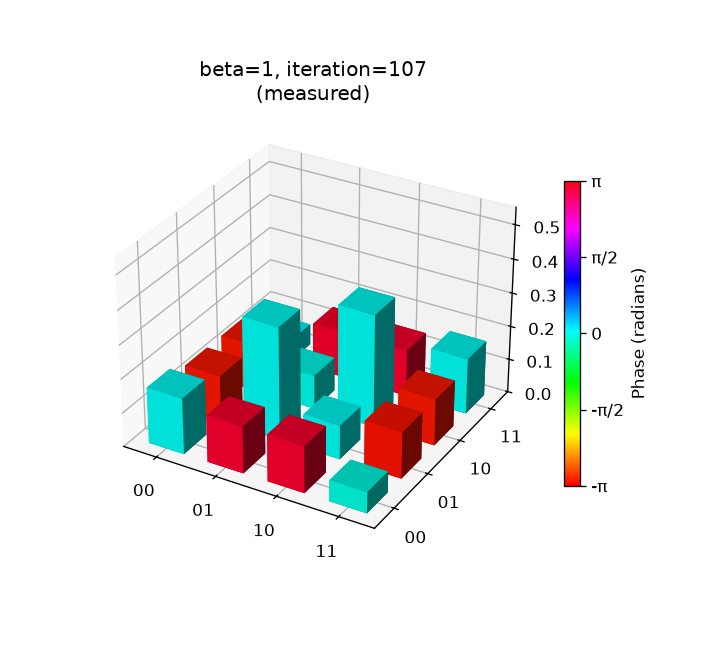
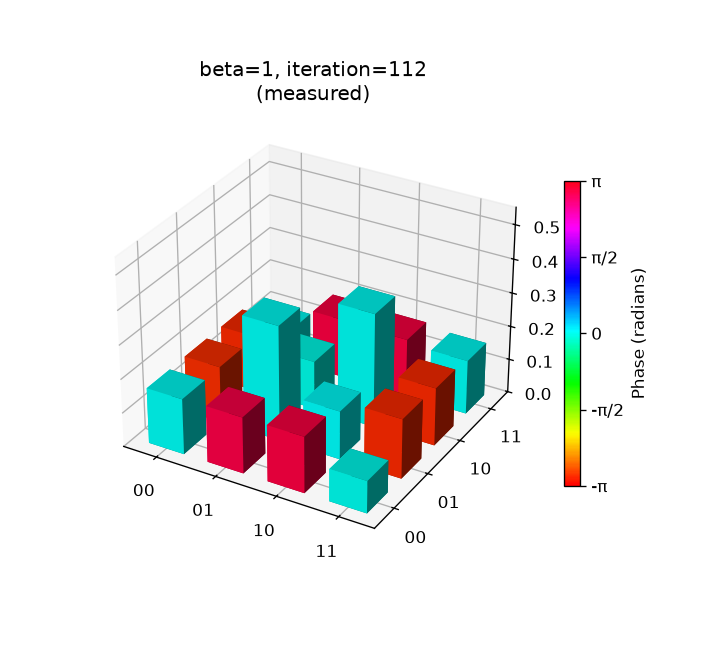
final version simulation

Changed region(s): [[0.2444, 0.4242, 0.6417, 0.7576], [0.55, 0.0909, 0.6111, 0.1212], [0.6417, 0.5152, 0.6722, 0.5455]]

diff --git a/frontend/experiment.py b/frontend/experiment.py
@@ -115,6 +115,7 @@ class OptimizationWorker(QObject):
     rho_progress = Signal(object)
     finished = Signal(object)
     log = Signal(str)
+    step = Signal(float)
 
     def __init__(self, manager, config: SessionConfig):
         super().__init__()
@@ -129,6 +130,8 @@ class OptimizationWorker(QObject):
         config = self.config
         x0 = np.array([config.gamma1, config.gamma2, config.alpha1, config.alpha2])
         iteration = [0]
+        betas = [b for b in (1e-8, 0.5, 1, 5) if b < config.beta] + [config.beta]
+        current_beta = [betas[0]]
 
         # Computed once up front rather than per-iteration or only at the
         # end: the true Gibbs state depends only on beta, not on the
@@ -143,7 +146,7 @@ class OptimizationWorker(QObject):
 
         cost_fn = CostFunction(
             varsigma=1.57,
-            backend=NoisySimulator("Starmon-7", ideal_simulation=False),
+            backend=NoisySimulator("Starmon-7", ideal_simulation=True),
         )
 
         # The live density-matrix preview is by far the most expensive thing
@@ -165,15 +168,17 @@ class OptimizationWorker(QObject):
             if self._abort:
                 raise _Aborted()
             iteration[0] += 1
-            cost = cost_fn.cost_history[-1]
+            bound = CostFunction.cost_lower_bound(current_beta[0])
+            cost = (cost_fn.cost_history[-1] - bound) / abs(bound)
             self.progress.emit(iteration[0], float(cost))
             try:
                 rho_a = cost_fn.tomography_history[-1]
                 if iteration[0] % rho_every == 0:
                     self.rho_progress.emit(rho_a)
-                if target is not None:
-                    fid = state_fidelity(DensityMatrix(rho_a), target, validate=False)
-                    self.fidelity_progress.emit(iteration[0], float(fid))
+                tgt = DensityMatrix(
+                    GibbsState(default_subsystem_hamiltonian()).gibbs_density_matrix(current_beta[0]))
+                fid = state_fidelity(DensityMatrix(rho_a), tgt, validate=False)
+                self.fidelity_progress.emit(iteration[0], float(fid))
             except Exception:
                 pass  # a live preview glitch shouldn't kill the optimization
             time.sleep(_STEP_DELAY_SECONDS)
@@ -182,10 +187,15 @@ class OptimizationWorker(QObject):
             f"Starting optimization  |  beta={config.beta}  optimizer={config.optimizer}")
 
         try:
-            result = minimize(
-                cost_fn.cost_function, x0=x0, args=(config.beta,), method=config.optimizer,
-                options={'maxiter': config.iterations}, callback=callback,
-            )
+            for b in betas:
+                current_beta[0] = b
+                self.step.emit(b)
+                self.log.emit(f"Optimizing at beta={b}")
+                result = minimize(
+                    cost_fn.cost_function, x0=x0, args=(b,), method=config.optimizer,
+                    options={'maxiter': config.iterations}, callback=callback,
+                )
+                x0 = result.x
             final_params = result.x
         except _Aborted:
             self.log.emit("Aborted.")
@@ -494,6 +504,7 @@ class ExperimentWindow(QWidget):
         self.worker.log.connect(self._on_log)
         self.worker.finished.connect(self._on_finished)
         self.worker.finished.connect(self.thread.quit)
+        self.worker.step.connect(self._on_step)
         self.thread.finished.connect(self.thread.deleteLater)
         self.thread.finished.connect(self._on_thread_finished)
 
@@ -552,6 +563,13 @@ class ExperimentWindow(QWidget):
     def _on_log(self, message: str):
         self.status_log.appendPlainText(message)
 
+    def _on_step(self, beta: float):
+        for ax, xs in ((self._loss_ax, self.loss_x), (self._fidelity_ax, self.fidelity_x)):
+            x = (xs[-1] + 0.5) if xs else 0
+            ax.axvline(x, color=Colors.TEXT_MUTED, linestyle=":", linewidth=1.2)
+            ax.text(x, 1.0, f" β={beta:g}", transform=ax.get_xaxis_transform(),
+                    color=Colors.TEXT_DIM, fontsize=8, va="top")
+
     def _on_finished(self, result: dict):
         self.stop_btn.setEnabled(False)
         self.restart_btn.setEnabled(True)  # retry allowed whether this run succeeded, failed, or was stopped
@@ -598,14 +616,11 @@ class ExperimentWindow(QWidget):
                                       markersize=6, markeredgecolor=Colors.BG_3,
                                       markeredgewidth=1.2)
         self._loss_fill = None
-        style_axes(ax, title="Loss minimization", xlabel="Iteration", ylabel="Cost  C(β)")
-        self._loss_bound = None
-        if self.config is not None:
-            self._loss_bound = CostFunction.cost_lower_bound(self.config.beta)
-            ax.axhline(self._loss_bound, color=Colors.GOOD, linestyle="--", linewidth=1.8,
-                       label=f"Lower bound = {self._loss_bound:.3f}")
-            ax.legend(loc="upper right", fontsize=8, facecolor=Colors.BG_3,
-                      edgecolor=Colors.BORDER, labelcolor=Colors.TEXT_DIM)
+        style_axes(ax, title="Loss minimization", xlabel="Iteration", ylabel="Relative gap to lower bound")
+        self._loss_bound = 0.0
+        ax.axhline(0.0, color=Colors.GOOD, linestyle="--", linewidth=1.8, label="Lower bound")
+        ax.legend(loc="upper right", fontsize=8, facecolor=Colors.BG_3,
+                  edgecolor=Colors.BORDER, labelcolor=Colors.TEXT_DIM)
         ax.xaxis.set_major_locator(MaxNLocator(integer=True))
         self.loss_canvas.draw()
 
